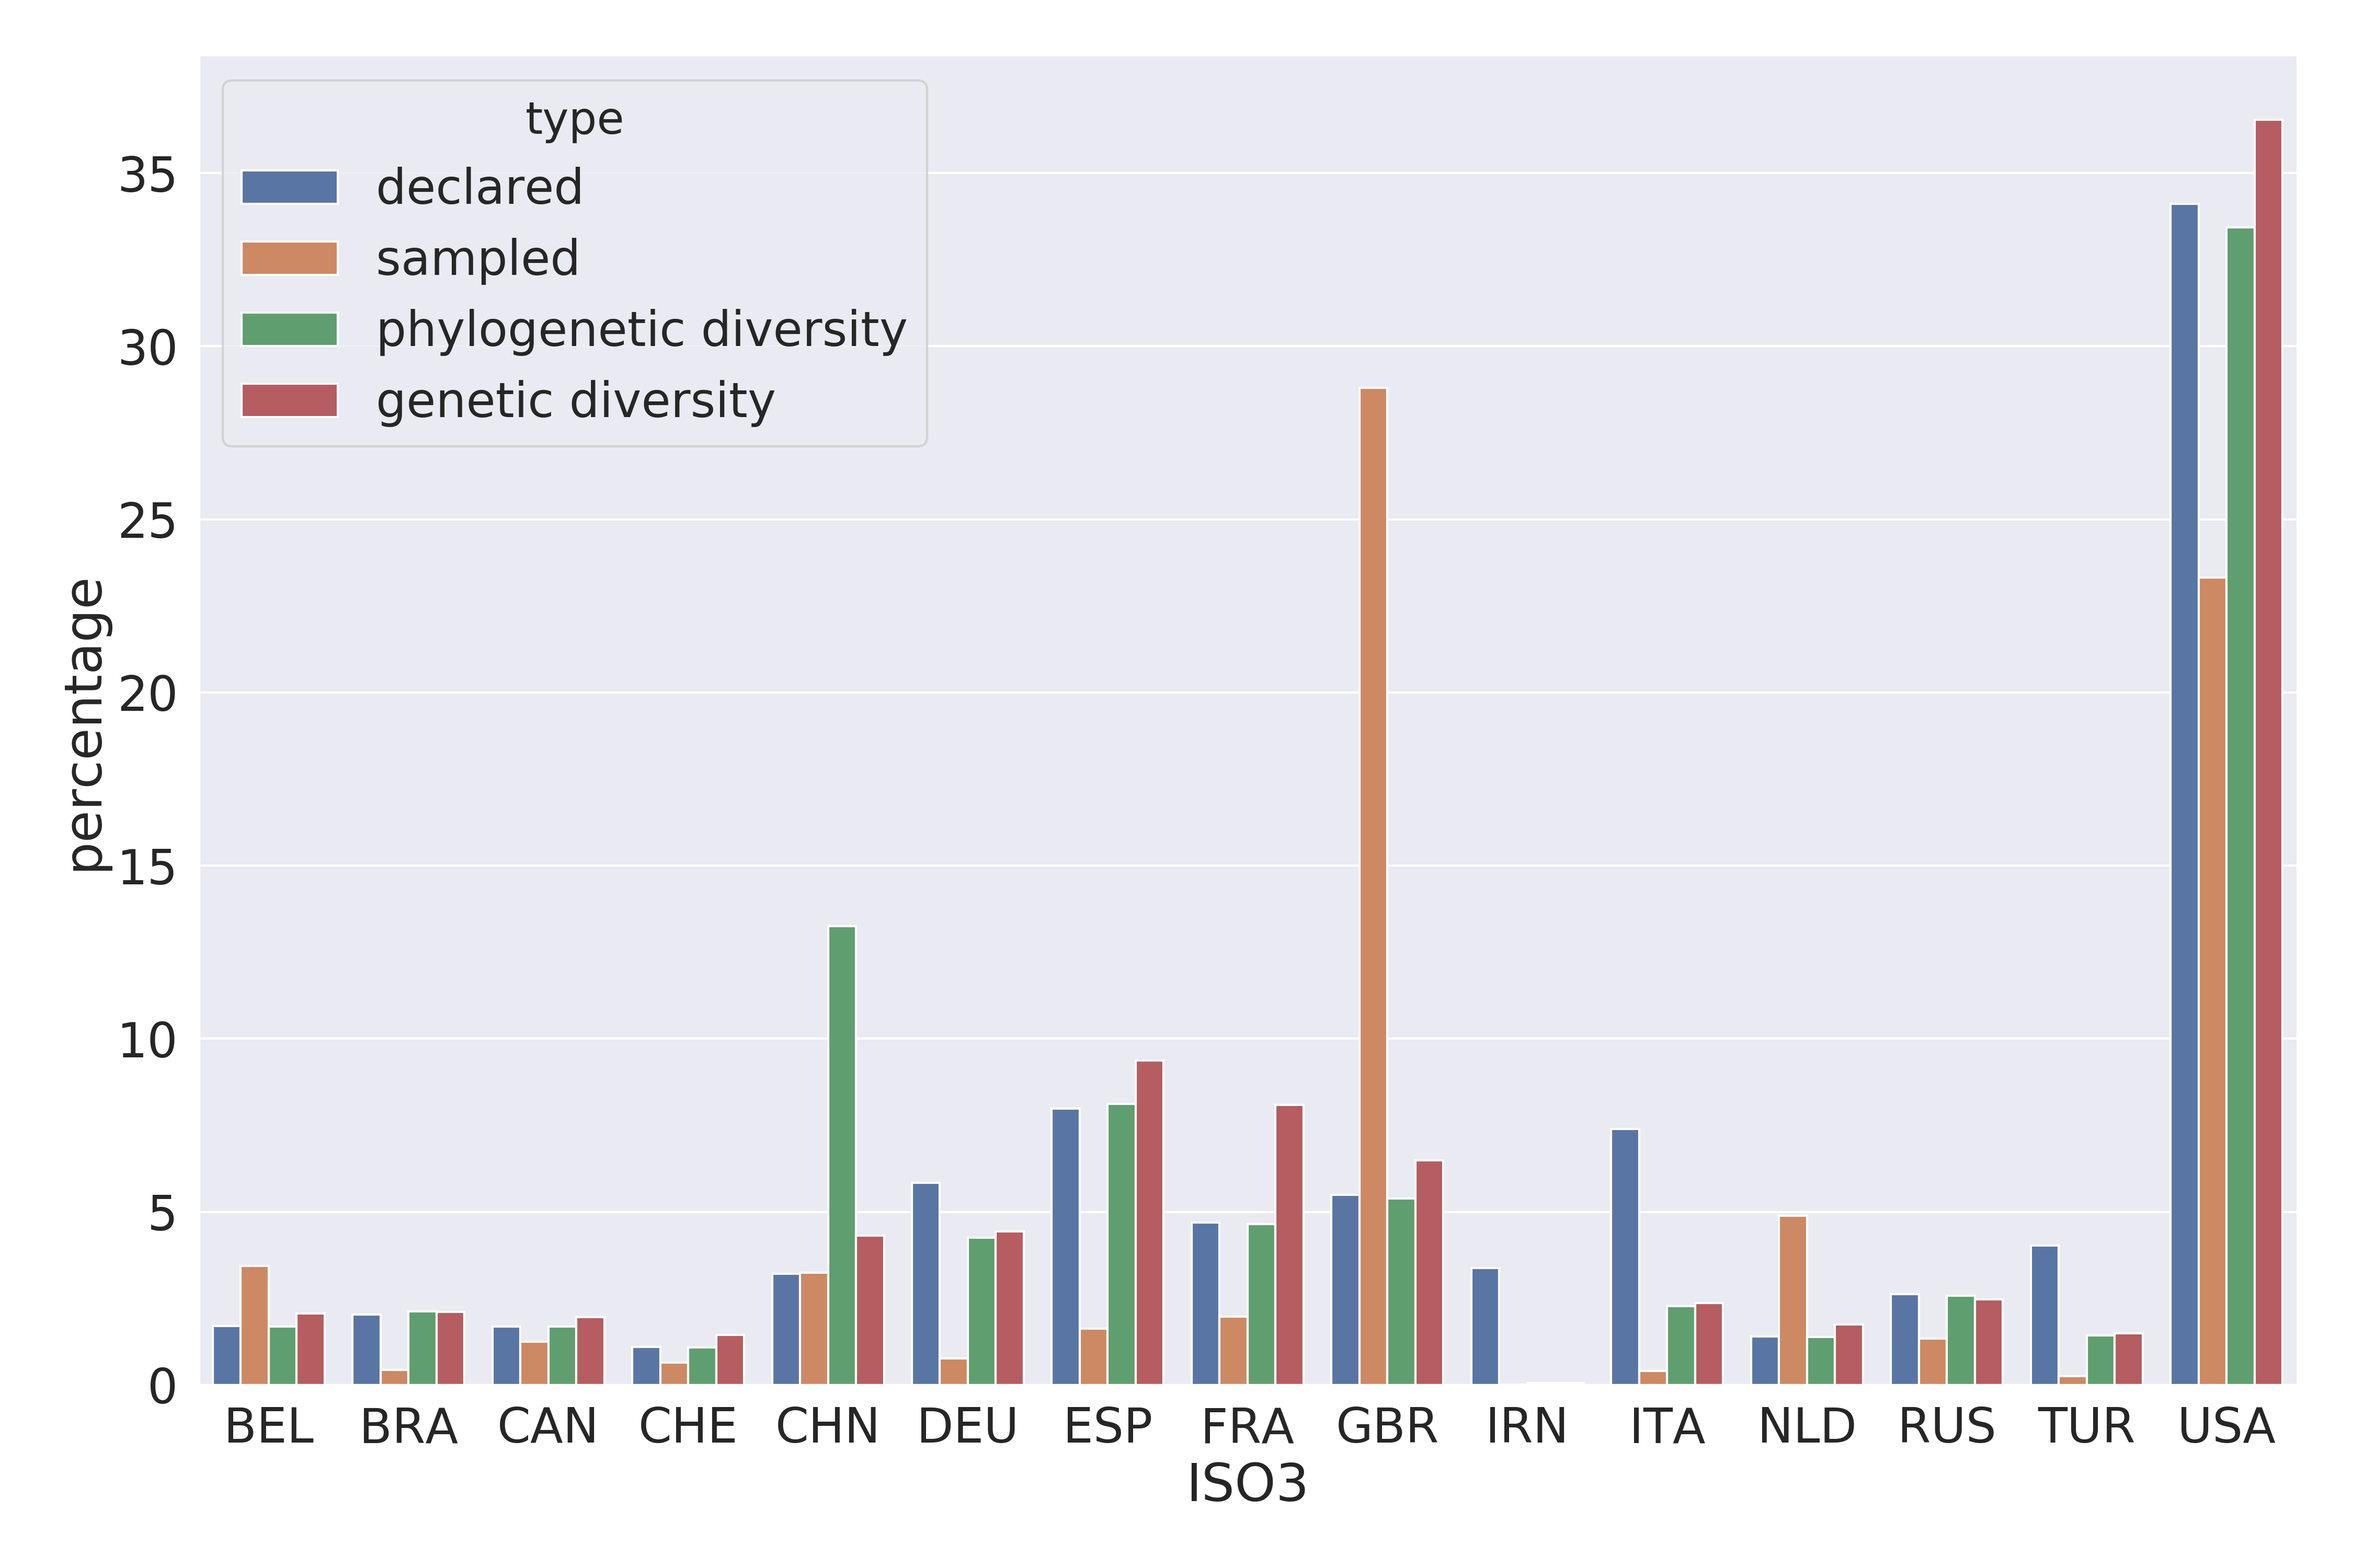
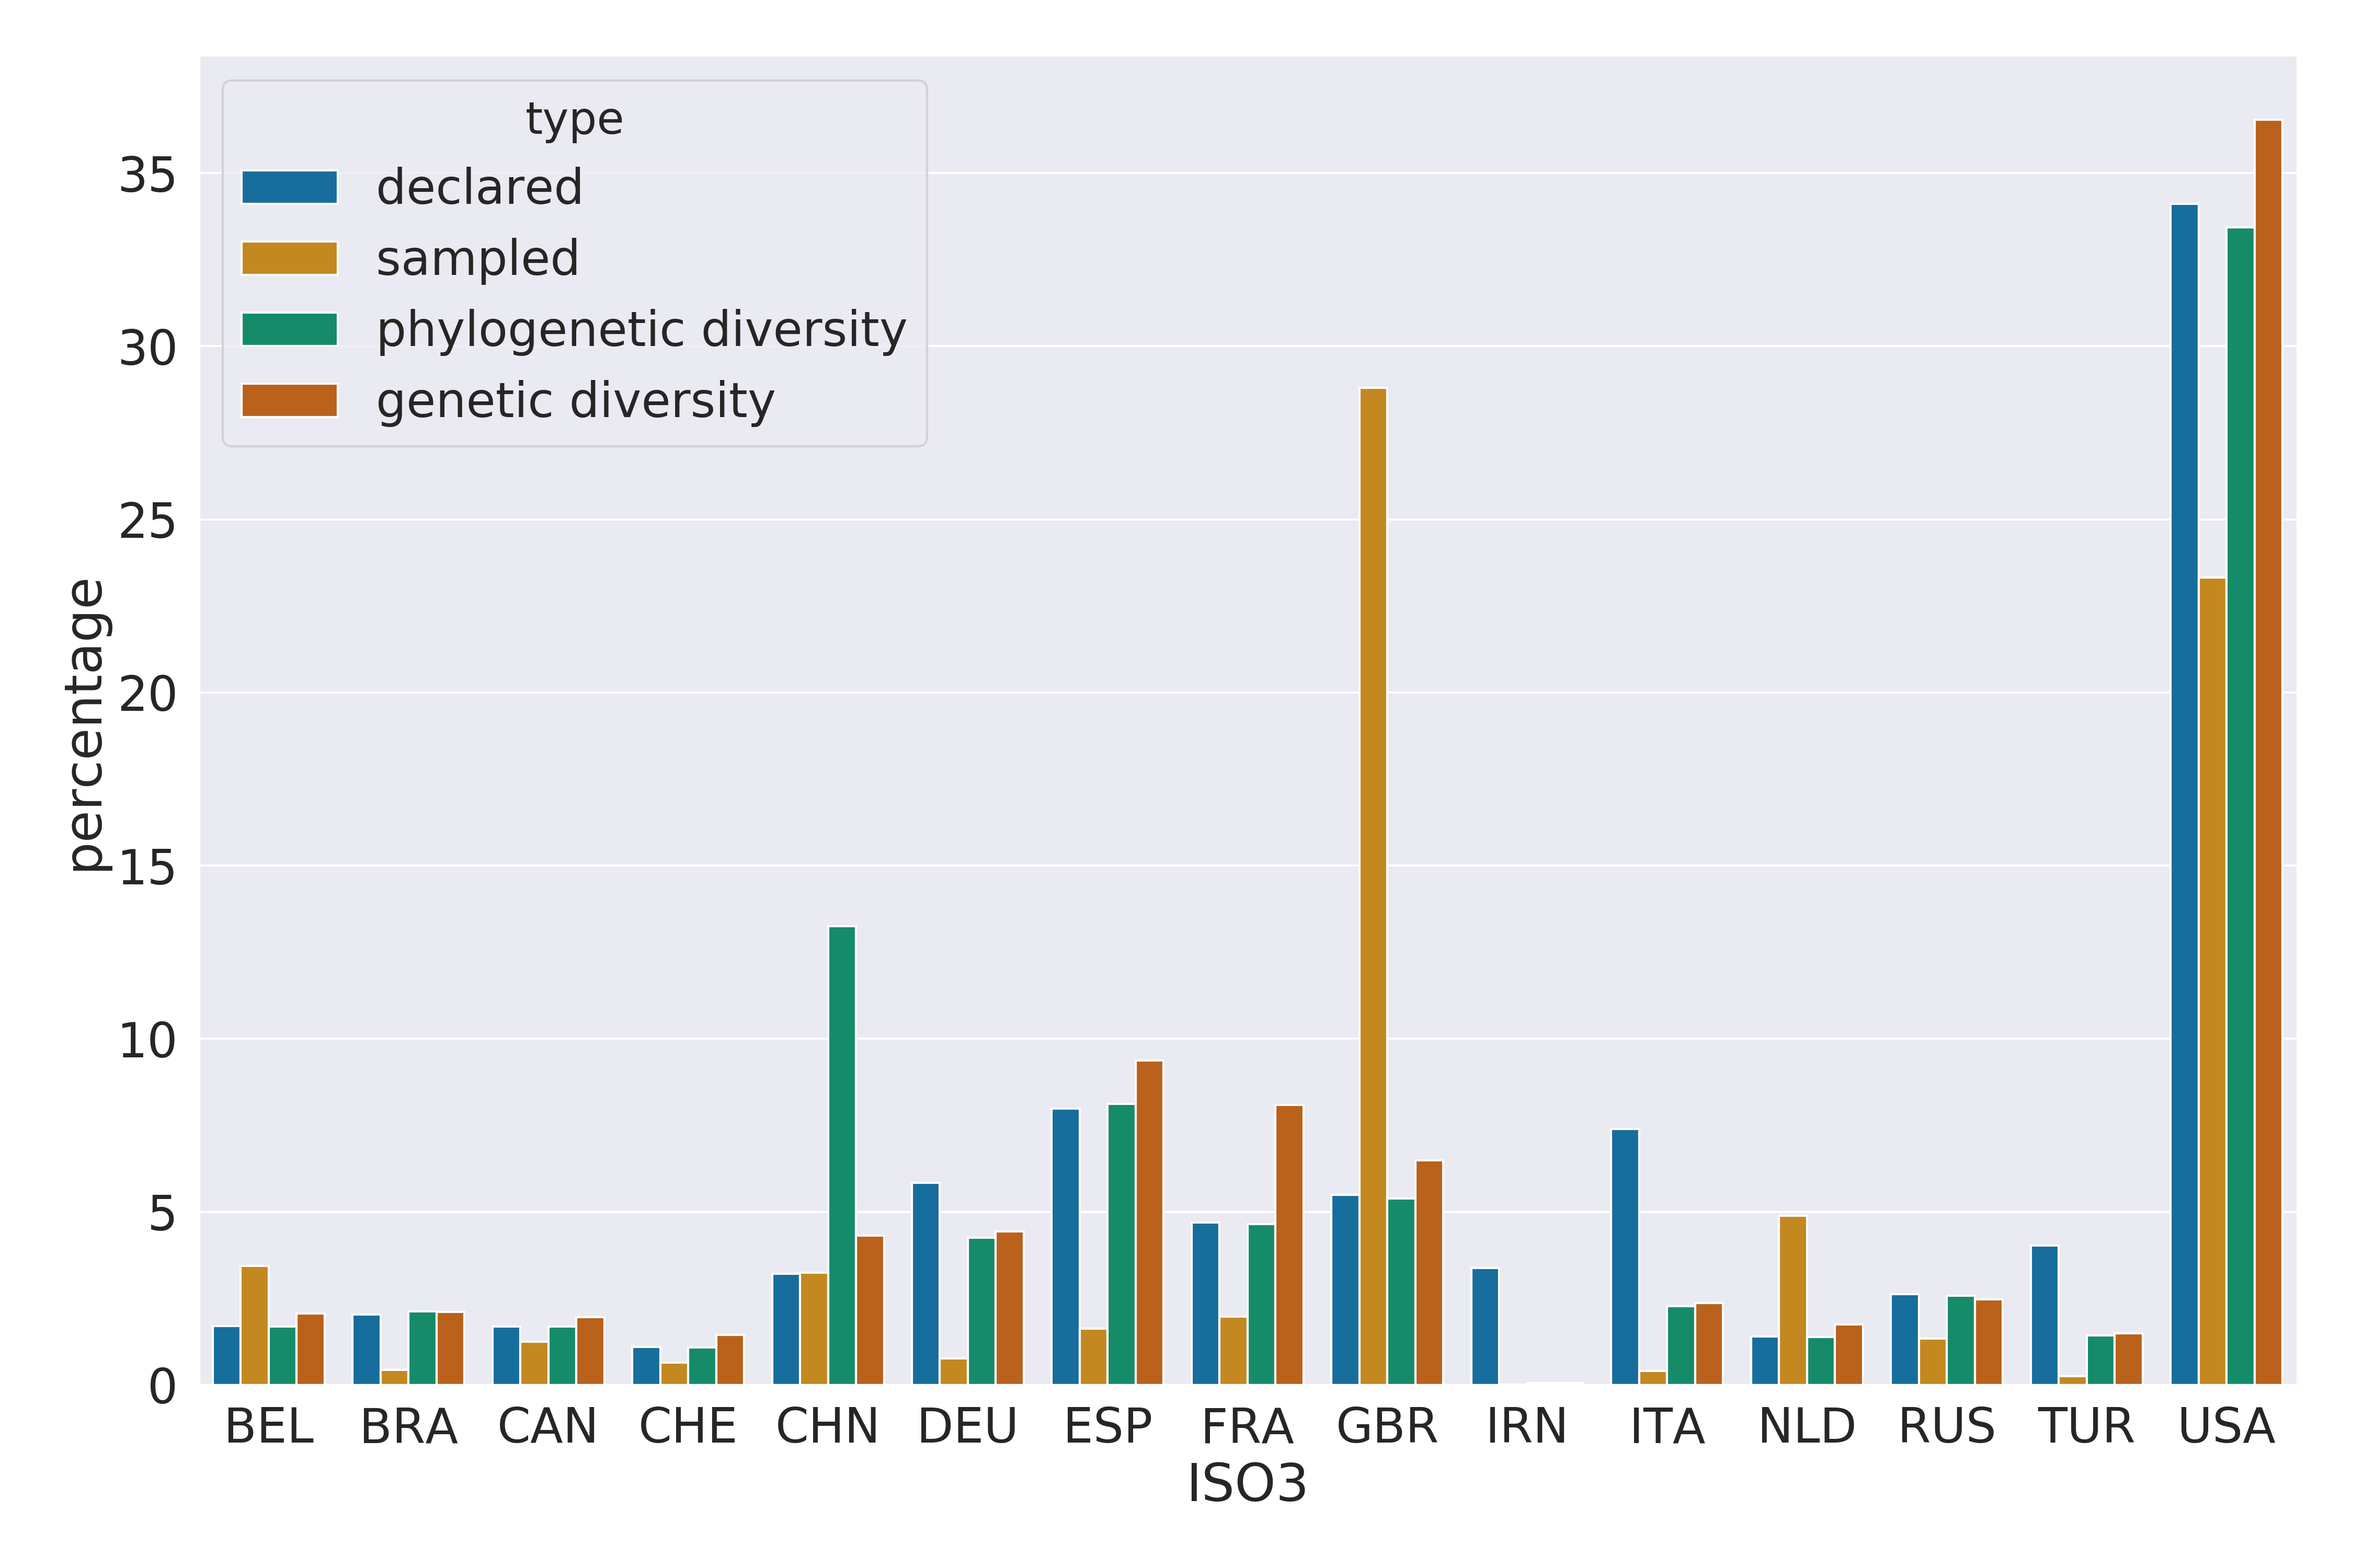
Fig 3

Changed region(s): [[0.6844, 0.093, 0.9956, 0.899], [0.0933, 0.248, 0.6533, 0.899], [0.0933, 0.093, 0.1556, 0.279]]

diff --git a/pipelines/py/plot_freqs.py b/pipelines/py/plot_freqs.py
@@ -1,0 +1,43 @@
+import argparse
+
+import matplotlib.pyplot as plt
+import pandas as pd
+import seaborn as sns
+from hdx.location.country import Country
+
+
+def get_iso3(_):
+    iso3 = Country.get_iso3_country_code_fuzzy(_)[0]
+    return iso3 if iso3 else _
+
+
+N = 5
+
+
+if __name__ == "__main__":
+    parser = argparse.ArgumentParser()
+
+    parser.add_argument('--tab', required=True, type=str)
+    parser.add_argument('--png', required=True, type=str)
+    params = parser.parse_args()
+
+    stat_df = pd.read_csv(params.tab, sep='\t', index_col=0)
+    stat_df = stat_df[stat_df['freq'] >= 0.01]
+    stat_df.index = stat_df.index.map(get_iso3)
+    df = pd.DataFrame(columns=['ISO3', 'frequency (%)', 'type'])
+    for label in stat_df.columns:
+        df = df.append(pd.DataFrame.from_dict(
+            {'ISO3': stat_df.index, 'frequency (%)': stat_df[label] * 100,
+             'type': [label.replace('freq_', '').replace('PD_', 'PD').replace('G_', 'GD') if label != 'freq' else 'declared'] * len(stat_df)}),
+            ignore_index=True)
+
+    plt.clf()
+    sns.set(font_scale=2)
+    fig, ax = plt.subplots(1, 1)
+    ax = sns.barplot(x='ISO3', y='frequency (%)', hue='type', data=df, palette='colorblind')
+    ax.spines['right'].set_visible(False)
+    ax.spines['top'].set_visible(False)
+    fig.set_size_inches(15, 10)
+    plt.tight_layout()
+    # plt.show()
+    plt.savefig(params.png, dpi=300)

diff --git a/pipelines/py/pastml_stats.py b/pipelines/py/pastml_stats.py
@@ -1,0 +1,22 @@
+import pandas as pd
+
+if '__main__' == __name__:
+    import argparse
+
+    parser = argparse.ArgumentParser()
+
+    parser.add_argument('--freqs', required=True, type=str)
+    parser.add_argument('--pastml_freqs', nargs='+', type=str)
+    parser.add_argument('--labels', nargs='+', type=str)
+    parser.add_argument('--output_stats', required=True, type=str)
+    parser.add_argument('--col', required=False, type=str, default='country')
+    params = parser.parse_args()
+
+    df = pd.read_csv(params.freqs, index_col=0, sep='\t')
+    df.columns = ['freq']
+
+    for label, tab in zip(params.labels, params.pastml_freqs):
+        pdf = pd.read_csv(tab, index_col=0, sep='\t')
+        df['freq_{}'.format(label)] = pdf.loc[df.index, 'value']
+
+    df.to_csv(params.output_stats, sep='\t', index_label=params.col)

diff --git a/pipelines/py/plot_declared_sampled_subsampled_cases.py b/pipelines/py/plot_declared_sampled_subsampled_cases.py
@@ -23,7 +23,7 @@ if __name__ == "__main__":
     plt.clf()
     sns.set(font_scale=2)
     fig, ax = plt.subplots(1, 1)
-    ax = sns.barplot(x='ISO3', y='percentage', hue='type', data=df)
+    ax = sns.barplot(x='ISO3', y='percentage', hue='type', data=df, palette='colorblind')
     ax.spines['right'].set_visible(False)
     ax.spines['top'].set_visible(False)
     fig.set_size_inches(15, 10)
